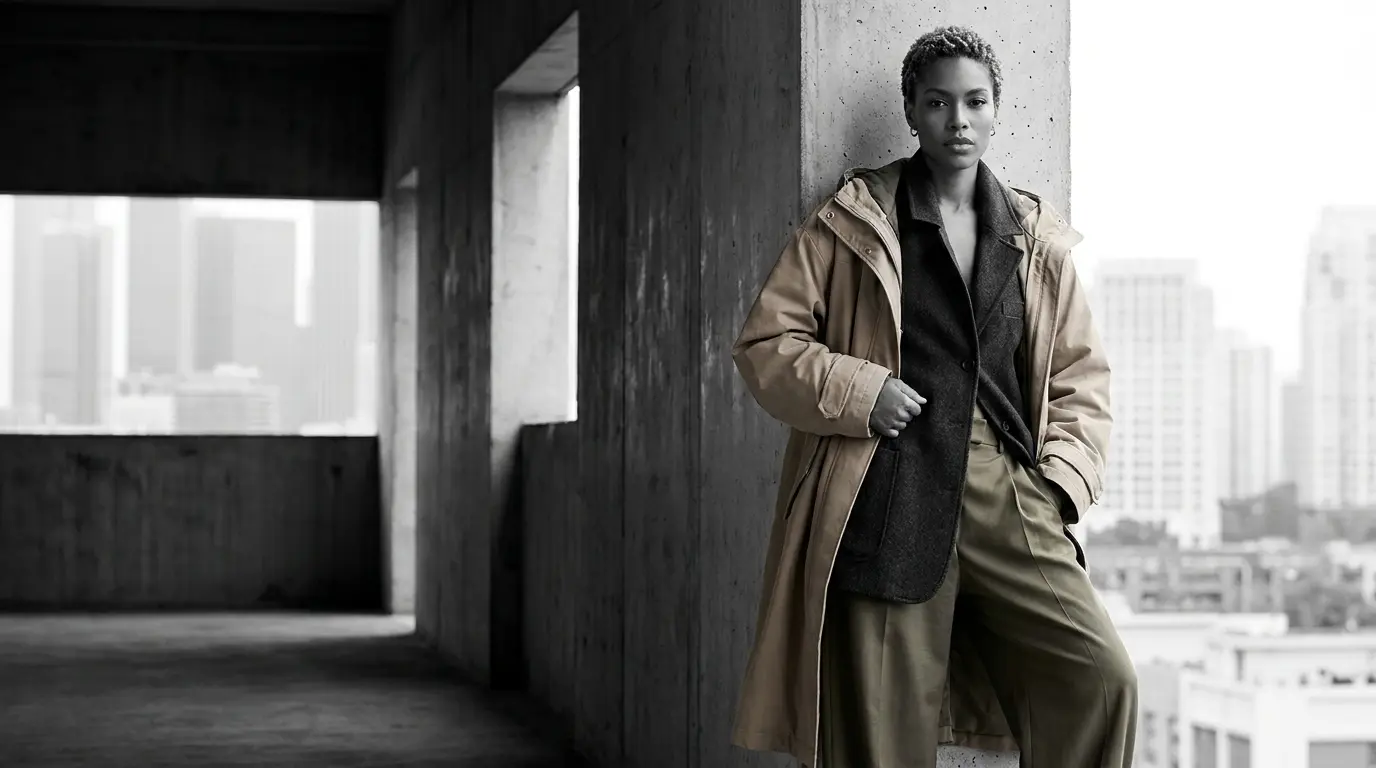
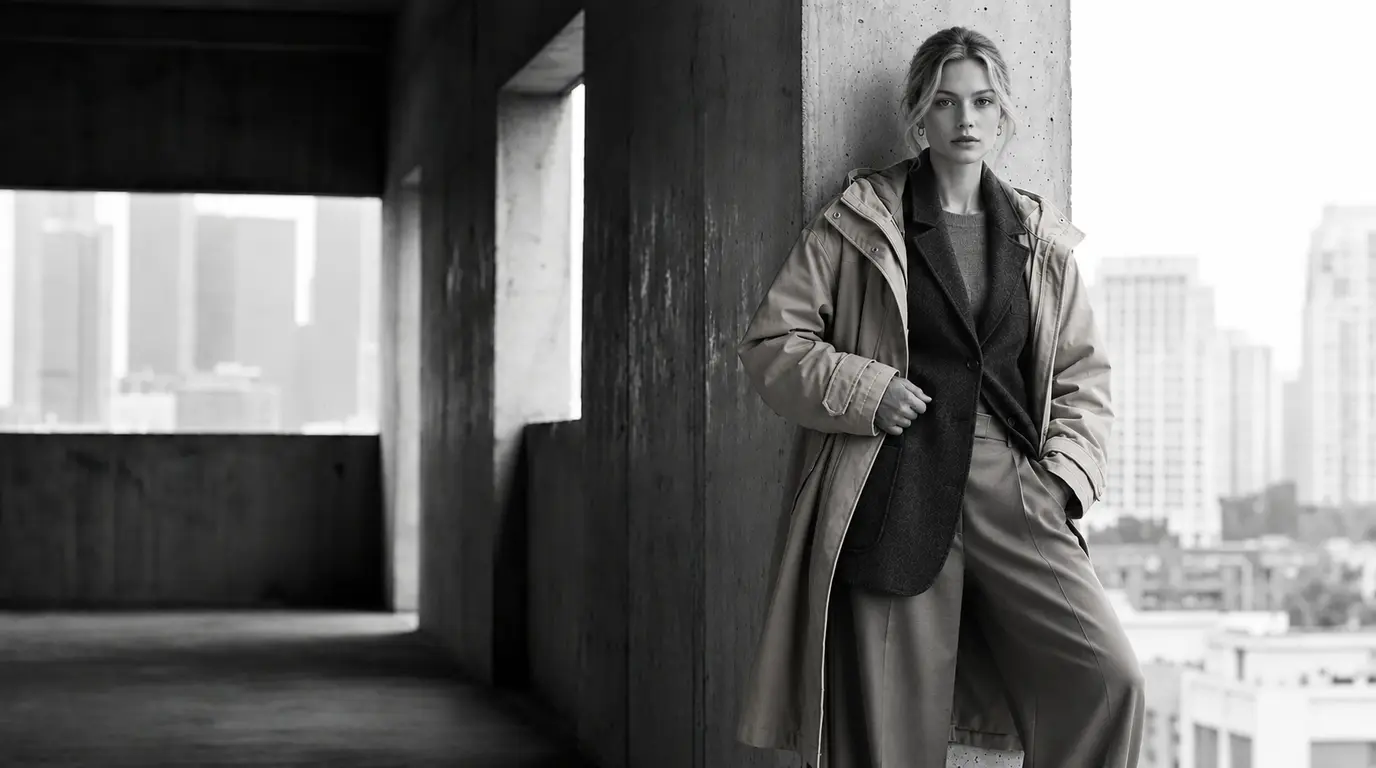
Update routes restriction on not logged in user

diff --git a/src/components/section/ProductSection.tsx b/src/components/section/ProductSection.tsx
@@ -10,6 +10,7 @@ import DiscPrice from "@/components/atomic/DiscPrice"
 
 import { useCartStore } from "@/hooks/cartStores"
 import { useWishlistStore, buildWishlistItem } from "@/hooks/wishlistStores"
+import useAuth from "@/hooks/useAuthHooks"
 
 import { useState } from "react"
 import { Heart } from "lucide-react"
@@ -21,6 +22,7 @@ import type { ProductSize } from "@/constants/sizeConst"
 export const ProductSection = () => {
   const { addToCart } = useCartStore()
   const { toggleWishlist, isWishlisted } = useWishlistStore()
+  const { requireAuth } = useAuth()
 
   const { productid } = useParams()
   const productDetail =
@@ -172,18 +174,20 @@ export const ProductSection = () => {
                 className="flex-1 rounded-full text-base"
                 aria-label="Add to cart"
                 onClick={() => {
-                  addToCart(quantity, {
-                    itemName: productDetail.itemName,
-                    cartItemID: constructCID(
-                      productDetail.itemId,
-                      selectedColor,
-                      selectedSize
-                    ),
-                    itemQty: quantity,
-                    itemImg: productDetail.itemImg,
-                    itemColor: selectedColor,
-                    itemSize: selectedSize,
-                    finalPrice: discountedPrice,
+                  requireAuth(() => {
+                    addToCart(quantity, {
+                      itemName: productDetail.itemName,
+                      cartItemID: constructCID(
+                        productDetail.itemId,
+                        selectedColor,
+                        selectedSize
+                      ),
+                      itemQty: quantity,
+                      itemImg: productDetail.itemImg,
+                      itemColor: selectedColor,
+                      itemSize: selectedSize,
+                      finalPrice: discountedPrice,
+                    })
                   })
                 }}
               >
@@ -198,7 +202,7 @@ export const ProductSection = () => {
                   wishlisted ? "Remove from wishlist" : "Add to wishlist"
                 }
                 aria-pressed={wishlisted}
-                onClick={handleToggleWishlist}
+                onClick={() => requireAuth(handleToggleWishlist)}
                 className={cn(
                   "shrink-0 rounded-full transition-colors duration-200",
                   wishlisted

diff --git a/src/App.tsx b/src/App.tsx
@@ -1,4 +1,4 @@
-import { PageRoutes } from "./config/routes"
+import { PageRoutes } from "./config/routes/routes"
 
 import { BrowserRouter, Routes, Route } from "react-router-dom"
 import HomePage from "./pages/HomePage"
@@ -12,21 +12,41 @@ import OrderHistoryPage from "./pages/OrderHistoryPage"
 import CheckoutPage from "./pages/CheckoutPage"
 import SettingsPage from "./pages/SettingsPage"
 
+import { PrivateRoute } from "./config/routes/PrivateRoute"
+import { GuestRoute } from "./config/routes/GuestRoute"
+import { CartRoute } from "./config/routes/CartRoute"
+
 export function App() {
   return (
     <BrowserRouter>
       <ScrollToTop />
       <Routes>
+        {/* Public routes */}
         <Route path={PageRoutes.HOME} element={<HomePage />} />
         <Route path={PageRoutes.BROWSE} element={<BrowseCategoryPage />} />
         <Route path={PageRoutes.PRODUCT} element={<ProductDetailPage />} />
         <Route path={PageRoutes.CART} element={<ShoppingCartPage />} />
-        <Route path={PageRoutes.LOGIN} element={<LoginPage />} />
-        <Route path={PageRoutes.REGISTER} element={<RegisterPage />} />
-        <Route path={PageRoutes.ORDER_HISTORY} element={<OrderHistoryPage />} />
-        <Route path={PageRoutes.WISHLIST} element={<OrderHistoryPage />} />
-        <Route path={PageRoutes.CHECKOUT} element={<CheckoutPage />} />
-        <Route path={PageRoutes.SETTINGS} element={<SettingsPage />} />
+
+        {/* Guest-only routes, redirect to home if already logged in */}
+        <Route element={<GuestRoute />}>
+          <Route path={PageRoutes.LOGIN} element={<LoginPage />} />
+          <Route path={PageRoutes.REGISTER} element={<RegisterPage />} />
+        </Route>
+
+        {/* Auth-required routes, redirect to login if not authenticated */}
+        <Route element={<PrivateRoute />}>
+          <Route
+            path={PageRoutes.ORDER_HISTORY}
+            element={<OrderHistoryPage />}
+          />
+          <Route path={PageRoutes.WISHLIST} element={<OrderHistoryPage />} />
+          <Route path={PageRoutes.SETTINGS} element={<SettingsPage />} />
+
+          {/* Also requires non-empty cart, nested so both guards apply */}
+          <Route element={<CartRoute />}>
+            <Route path={PageRoutes.CHECKOUT} element={<CheckoutPage />} />
+          </Route>
+        </Route>
       </Routes>
     </BrowserRouter>
   )

diff --git a/src/pages/LoginPage.tsx b/src/pages/LoginPage.tsx
@@ -1,5 +1,5 @@
 import LoginForm from "@/components/forms/LoginForm"
-import { PageRoutes } from "@/config/routes"
+import { PageRoutes } from "@/config/routes/routes"
 import {
   allUsers,
   type LoginResponse,
@@ -7,25 +7,30 @@ import {
 } from "@/constants/loginConst"
 import { StatusCodes } from "http-status-codes"
 import { useState } from "react"
-import { useNavigate } from "react-router-dom"
+import { useNavigate, useLocation } from "react-router-dom"
 
 const LoginPage = () => {
   const [loginState, setLogin] = useState<LoginResponse>()
   const navigate = useNavigate()
+  const location = useLocation()
+
+  // Redirect back to the page the user was trying to reach before login
+  const from = (location.state as { from?: string })?.from ?? PageRoutes.HOME
 
   const handleLogin = async ({ email, password }: LoginType) => {
     const matchAccount = allUsers.filter(
       (user) => user.email === email && user.password === password
     )
-    if (matchAccount) {
+
+    // Check array length
+    if (matchAccount.length > 0) {
       localStorage.setItem("authenticated", "true")
       localStorage.setItem("authUser", matchAccount[0].fullName)
       setLogin({
         status: StatusCodes.OK,
         message: "Login successful!",
       })
-
-      return navigate(PageRoutes.HOME)
+      return navigate(from, { replace: true })
     }
 
     return setLogin({

diff --git a/src/components/subsection/CartOrderSummary.tsx b/src/components/subsection/CartOrderSummary.tsx
@@ -1,10 +1,11 @@
 import { Tag, ArrowRight } from "lucide-react"
-import { Link } from "react-router-dom"
+import { useNavigate } from "react-router-dom"
 
 import { Button } from "@/components/ui/button"
 import { Separator } from "@/components/ui/separator"
-import { PageRoutes } from "@/config/routes"
+import { PageRoutes } from "@/config/routes/routes"
 import { DISCOUNT_RATE } from "@/constants/cartConst"
+import useAuth from "@/hooks/useAuthHooks"
 
 interface CartOrderSummaryProps {
   subtotal: number
@@ -19,6 +20,12 @@ export const CartOrderSummary = ({
   deliveryFee,
   total,
 }: CartOrderSummaryProps) => {
+  const { requireAuth } = useAuth()
+  const navigate = useNavigate()
+
+  const handleCheckout = () => {
+    requireAuth(() => navigate(PageRoutes.CHECKOUT))
+  }
   return (
     <div className="flex flex-col gap-6 rounded-2xl border border-border p-6">
       <h2 className="text-xl font-bold md:text-2xl">Order Summary</h2>
@@ -75,12 +82,12 @@ export const CartOrderSummary = ({
       </div>
 
       <Button
-        render={<Link to={PageRoutes.CHECKOUT} />}
         type="button"
         variant="default"
         size="xl"
         className="w-full rounded-full text-base"
         aria-label="Go to checkout"
+        onClick={handleCheckout}
       >
         Go to Checkout
         <ArrowRight className="size-5" strokeWidth={2} />

diff --git a/src/pages/RegisterPage.tsx b/src/pages/RegisterPage.tsx
@@ -1,5 +1,5 @@
 import RegisterForm from "@/components/forms/RegisterForm"
-import { PageRoutes } from "@/config/routes"
+import { PageRoutes } from "@/config/routes/routes"
 import { allUsers } from "@/constants/loginConst"
 import type {
   RegisterResponse,
@@ -11,7 +11,6 @@ import { useNavigate } from "react-router-dom"
 
 const RegisterPage = () => {
   const navigate = useNavigate()
-
   const [registerState, setRegister] = useState<RegisterResponse>()
 
   const handleRegister = (regData: ZodRegisterType) => {
@@ -20,11 +19,9 @@ const RegisterPage = () => {
       message: "Registration success",
     }
 
-    // if (registerRes.status === StatusCodes.OK) {
     allUsers.push(regData)
     setRegister(regRes)
     navigate(PageRoutes.LOGIN)
-    // }
   }
 
   return (

diff --git a/src/hooks/orderHistoryHooks.ts b/src/hooks/orderHistoryHooks.ts
@@ -13,11 +13,11 @@ import {
   type Order,
 } from "@/constants/orderHistoryConst"
 import { useOrderHistoryStore } from "@/hooks/orderHistoryStores"
-import { useOrderActionModal } from "@/hooks/useOrderActionModal"
+import { useOrderActionModal } from "@/hooks/useOrderActionModalHooks"
 import { useCartStore } from "@/hooks/cartStores"
 import { useWishlistStore } from "@/hooks/wishlistStores"
 import type { Cart } from "@/constants/cartConst"
-import { PageRoutes } from "@/config/routes"
+import { PageRoutes } from "@/config/routes/routes"
 
 export const useOrderHistoryFilters = () => {
   const orderHistory = useOrderHistoryStore((state) => state.orders)

diff --git a/src/config/routes/PrivateRoute.tsx b/src/config/routes/PrivateRoute.tsx
@@ -1,0 +1,22 @@
+import { Navigate, Outlet, useLocation } from "react-router-dom"
+import { PageRoutes } from "@/config/routes/routes"
+
+/** Redirects to /login if not authenticated, preserving the intended path in state */
+export const PrivateRoute = () => {
+  const isAuthenticated = !!localStorage.getItem("authenticated")
+  const location = useLocation()
+
+  if (!isAuthenticated) {
+    return (
+      <Navigate
+        to={PageRoutes.LOGIN}
+        state={{ from: location.pathname }}
+        replace
+      />
+    )
+  }
+
+  return <Outlet />
+}
+
+export default PrivateRoute

diff --git a/src/hooks/useAuthHooks.ts b/src/hooks/useAuthHooks.ts
@@ -1,0 +1,20 @@
+import { useNavigate } from "react-router-dom"
+import { PageRoutes } from "@/config/routes/routes"
+
+const useAuth = () => {
+  const isAuthenticated = !!localStorage.getItem("authenticated")
+  const navigate = useNavigate()
+
+  /** Run callback if authenticated, otherwise redirect to login */
+  const requireAuth = (callback: () => void) => {
+    if (isAuthenticated) {
+      callback()
+    } else {
+      navigate(PageRoutes.LOGIN)
+    }
+  }
+
+  return { isAuthenticated, requireAuth }
+}
+
+export default useAuth

diff --git a/src/config/routes/CartRoute.tsx b/src/config/routes/CartRoute.tsx
@@ -1,0 +1,16 @@
+import { Navigate, Outlet } from "react-router-dom"
+import { PageRoutes } from "@/config/routes/routes"
+import { useCartStore } from "@/hooks/cartStores"
+
+/** Redirects to cart if cart is empty, guards the checkout page */
+export const CartRoute = () => {
+  const cart = useCartStore((state) => state.cart)
+
+  if (cart.length === 0) {
+    return <Navigate to={PageRoutes.CART} replace />
+  }
+
+  return <Outlet />
+}
+
+export default CartRoute

diff --git a/src/pages/OrderHistoryPage.tsx b/src/pages/OrderHistoryPage.tsx
@@ -3,7 +3,7 @@ import Footer from "@/components/section/Footer"
 import NavigationText from "@/components/section/NavigationText"
 import { OrderHistoryLayoutSection } from "@/components/section/OrderHistoryLayoutSection"
 import { useOrderHistoryFilters } from "@/hooks/orderHistoryHooks"
-import { PageRoutes } from "@/config/routes"
+import { PageRoutes } from "@/config/routes/routes"
 
 const orderHistoryCrumbs = [
   { label: "Home", href: PageRoutes.HOME },

diff --git a/src/config/routes/GuestRoute.tsx b/src/config/routes/GuestRoute.tsx
@@ -1,0 +1,15 @@
+import { Navigate, Outlet } from "react-router-dom"
+import { PageRoutes } from "@/config/routes/routes"
+
+/** Redirects authenticated users away from login/register back to home */
+export const GuestRoute = () => {
+  const isAuthenticated = !!localStorage.getItem("authenticated")
+
+  if (isAuthenticated) {
+    return <Navigate to={PageRoutes.HOME} replace />
+  }
+
+  return <Outlet />
+}
+
+export default GuestRoute

diff --git a/src/pages/ProductDetailPage.tsx b/src/pages/ProductDetailPage.tsx
@@ -7,7 +7,7 @@ import ProductSection from "@/components/section/ProductSection"
 import ShortShowcase from "@/components/section/ShortShowcase"
 import { allProducts } from "@/constants/productConst"
 import { allProductDetails } from "@/constants/productDetailConst"
-import { PageRoutes } from "@/config/routes"
+import { PageRoutes } from "@/config/routes/routes"
 
 const ProductDetailPage = () => {
   const { productid } = useParams()
